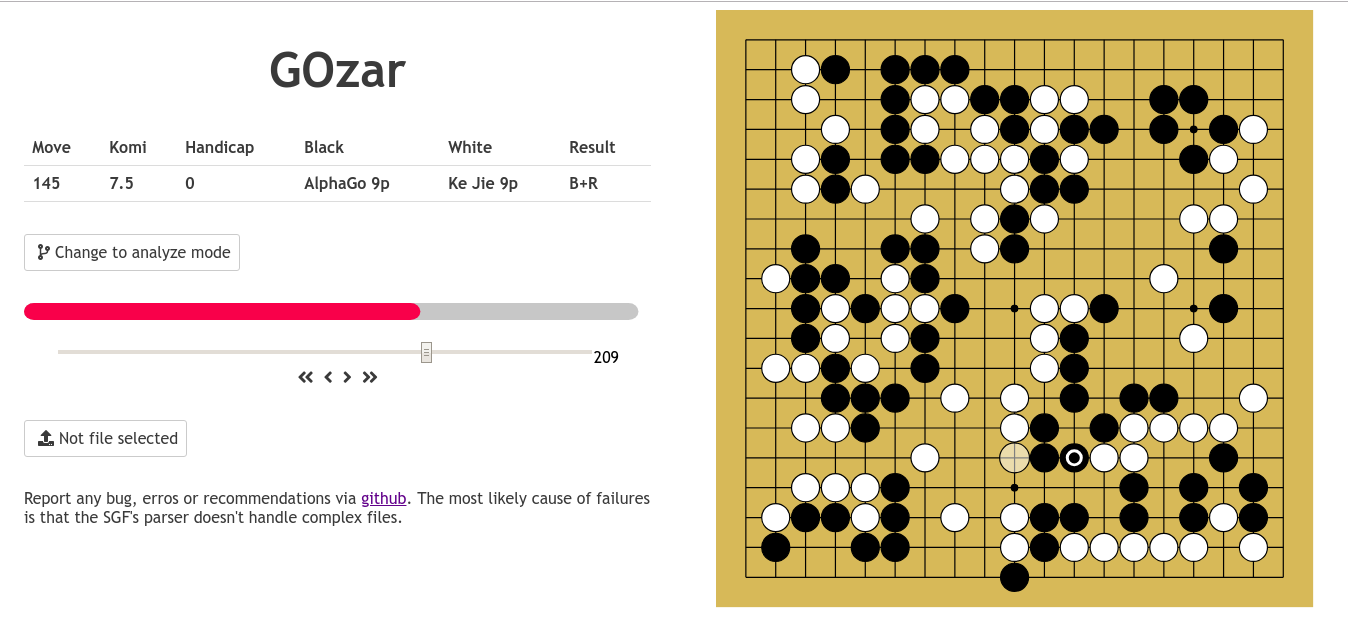
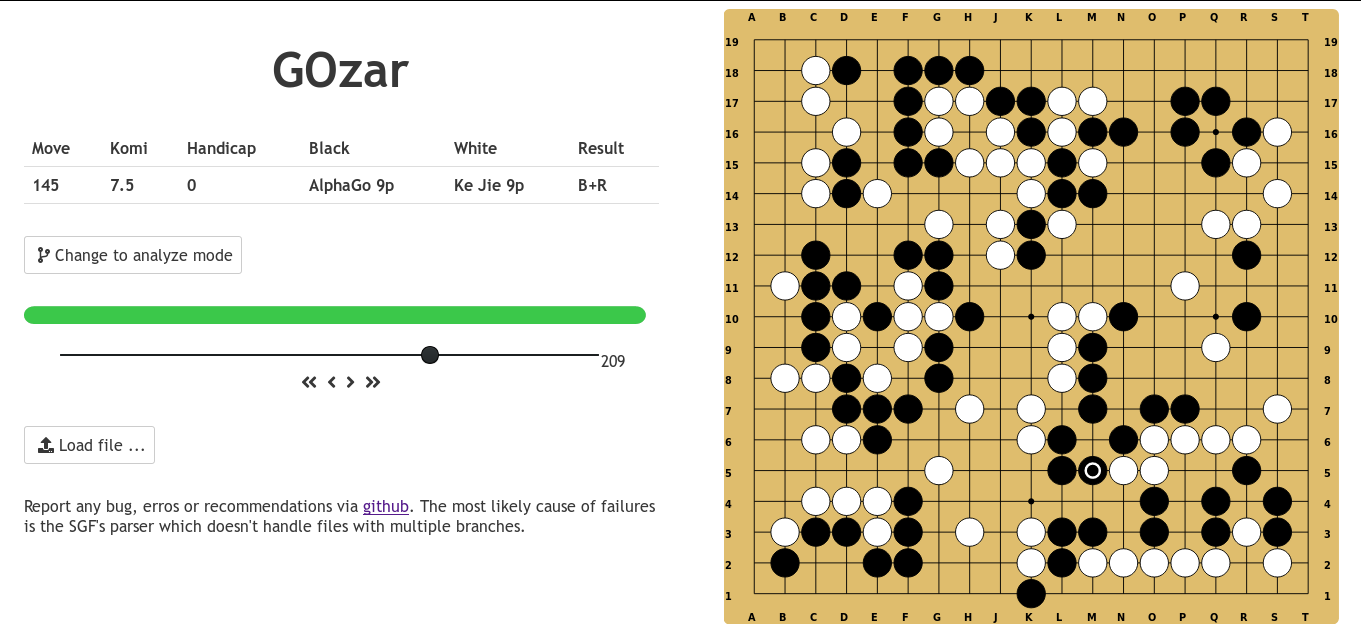
visual update

diff --git a/resources/sass/style.sass b/resources/sass/style.sass
@@ -1,5 +1,5 @@
 $my-gray: rgb(55,55,55);
-$stone-border: 0.04;
+$stone-border: 0.03;
 $transparent: rgba(0,0,0,0);
   
 circle.b
@@ -102,4 +102,4 @@ a.pass
   background-color: rgb(200,200,200)
 
 .coordinate
-  font: bold 0.024em sans-serif
+  font: bold 0.020em sans-serif
